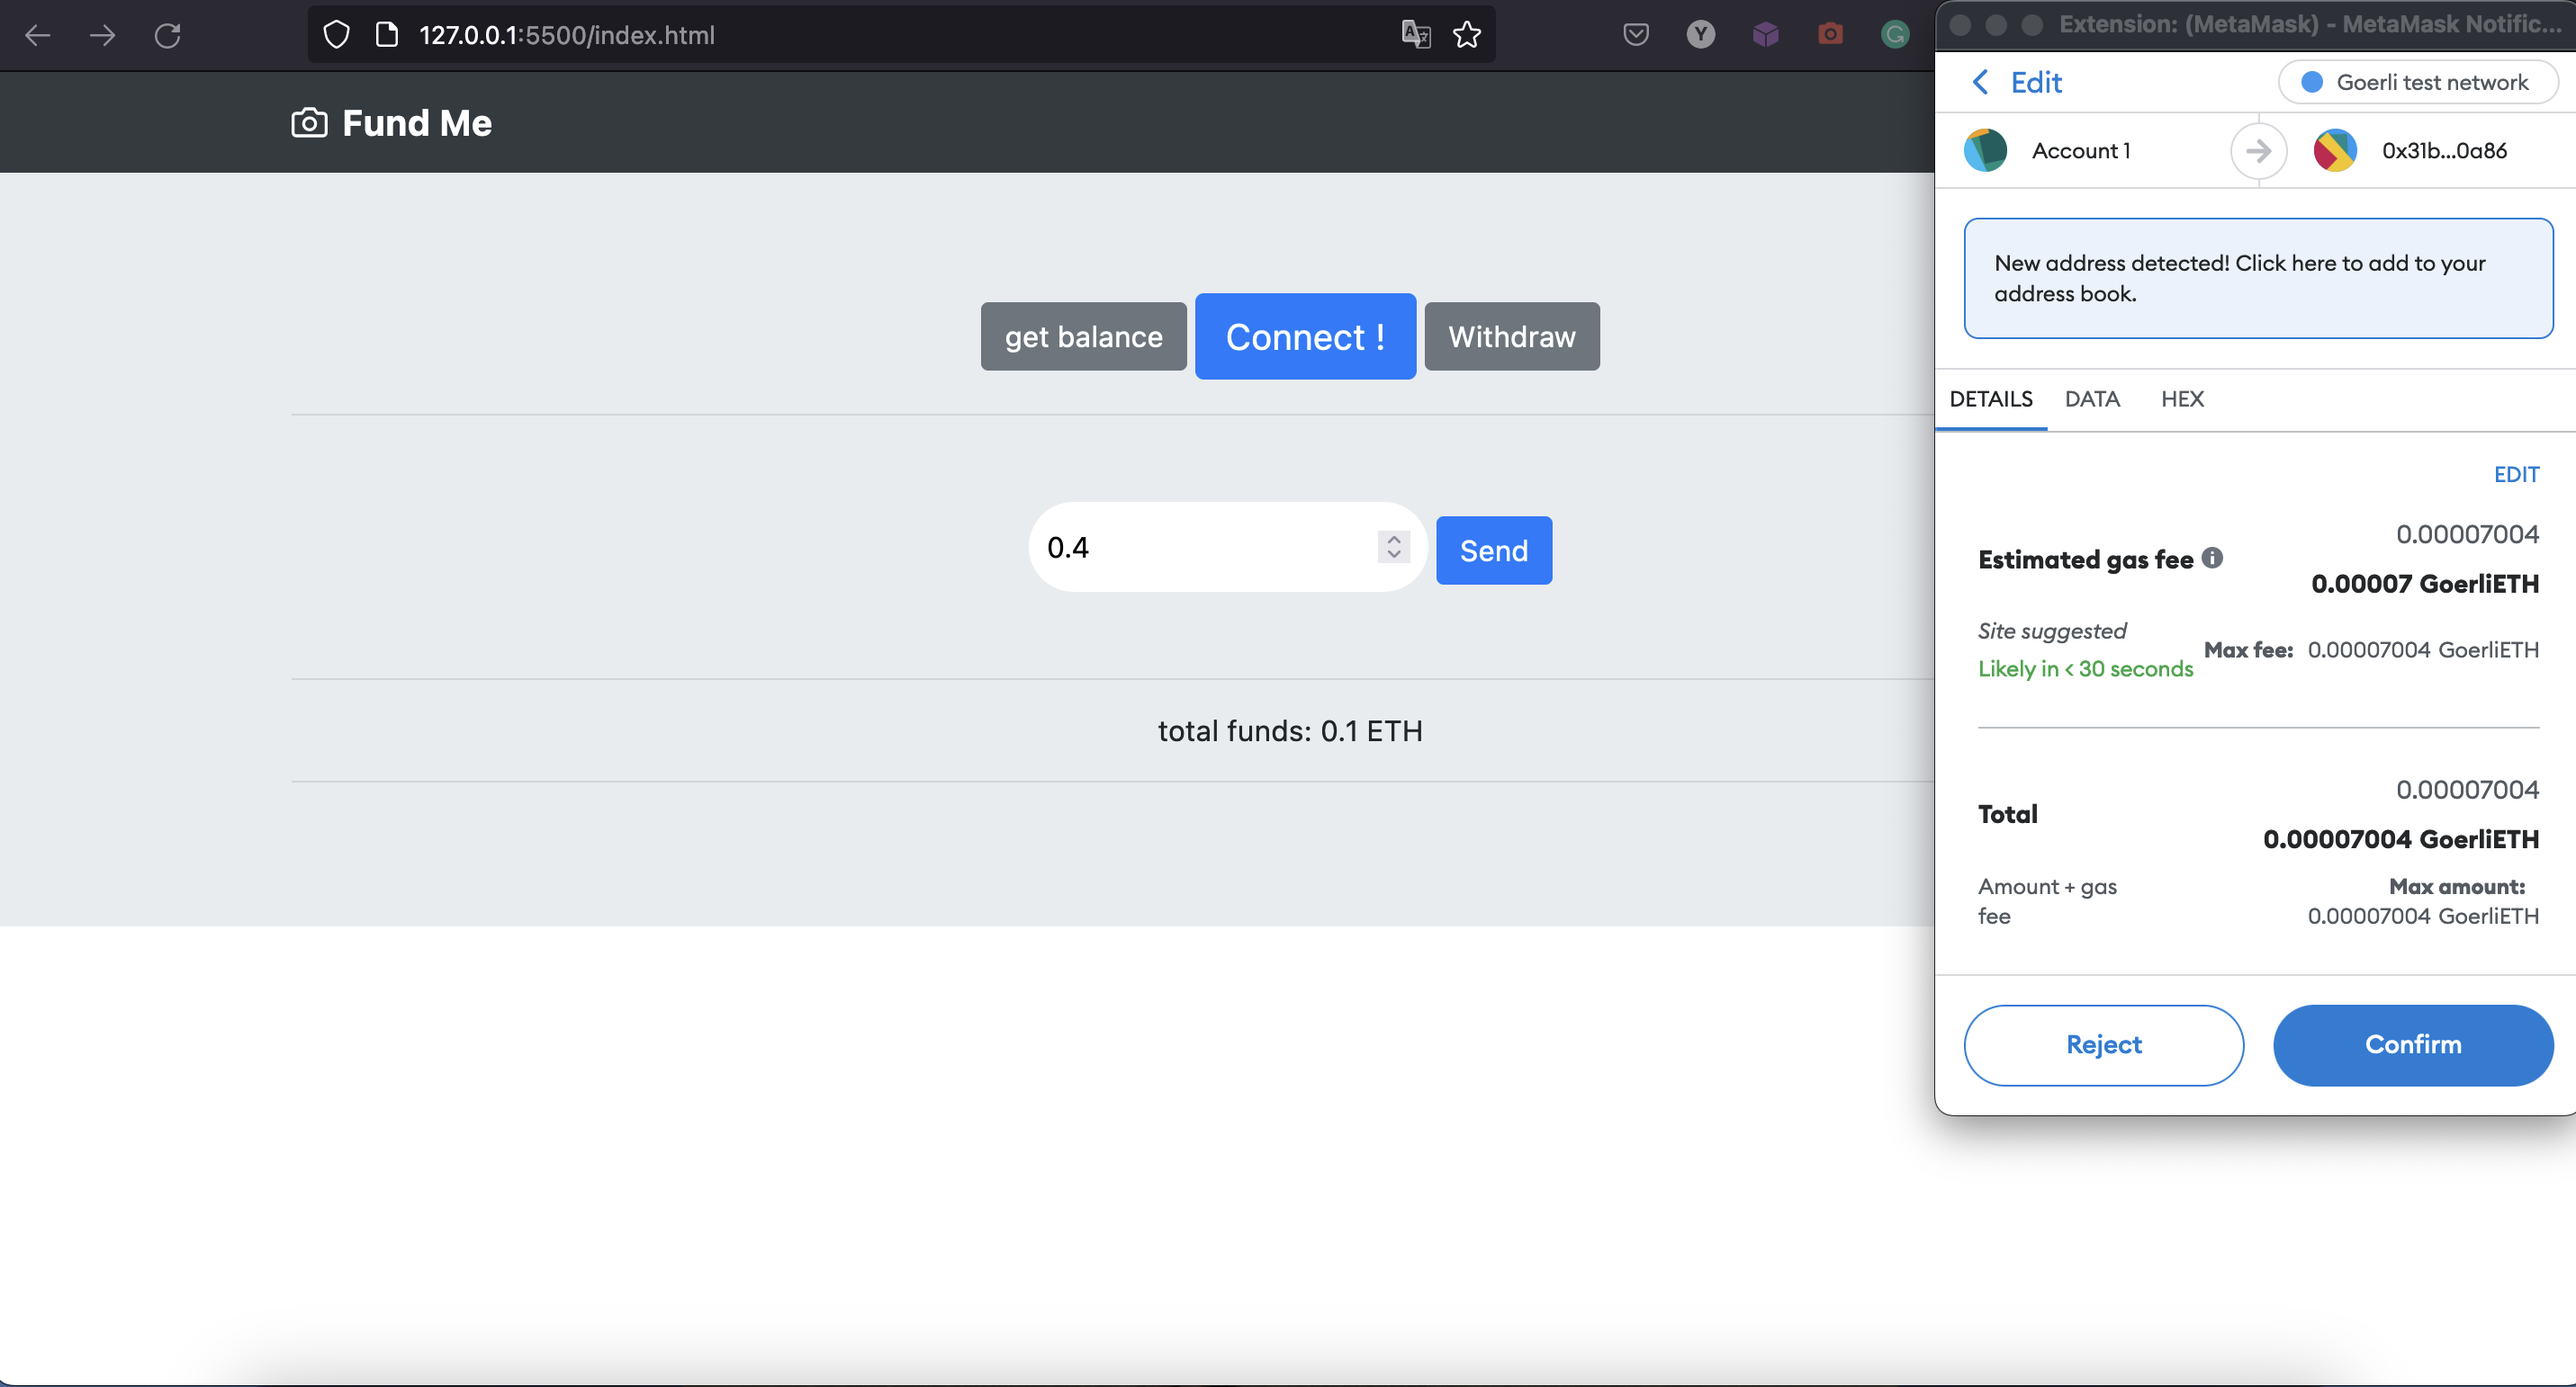
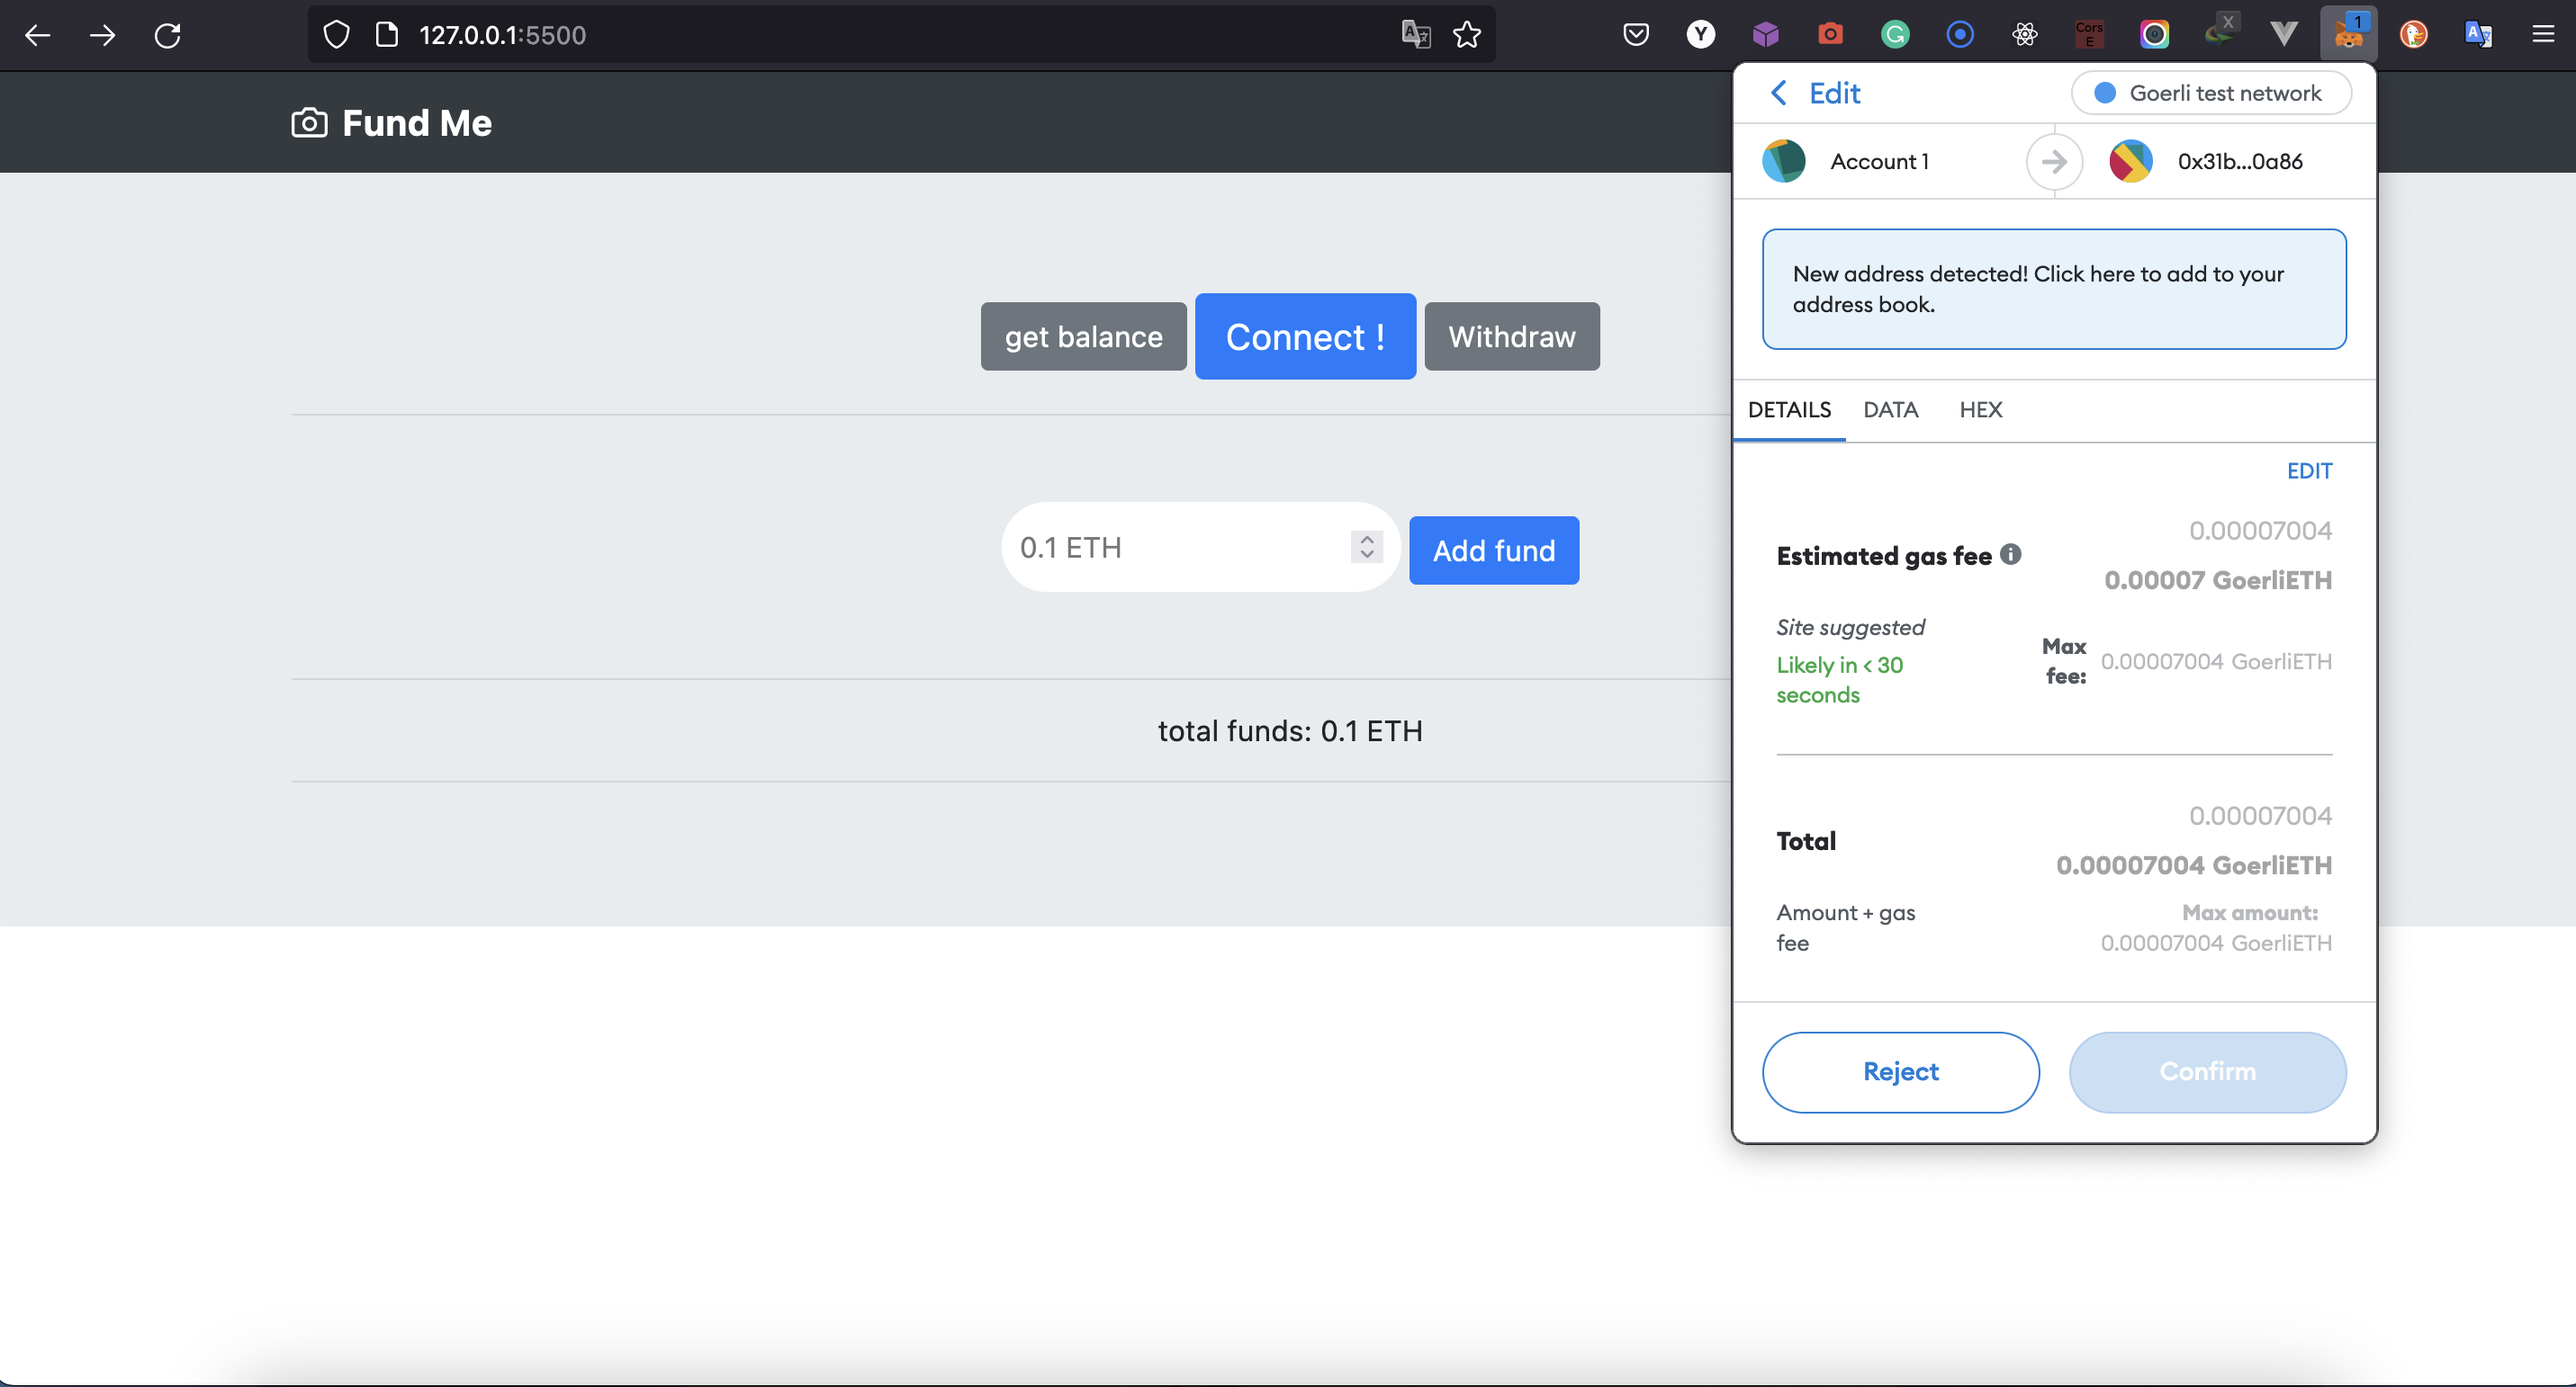
[feat]: update Ui

diff --git a/index.html b/index.html
@@ -64,7 +64,7 @@
                 <div class="my-5">
                     <input type="number" id="ethAmount" style="width: 20%; height: 50px; border: solid 0px gray; border-radius: 100px; padding: 0px 10px ;" step="any" min="0"
                         placeholder="0.1 ETH">
-                    <button type="button" class="btn btn-primary" id="fundBtn">Send</button>
+                    <button type="button" class="btn btn-primary" id="fundBtn">Add fund</button>
                 </div>
                 <hr />
                 <p>
